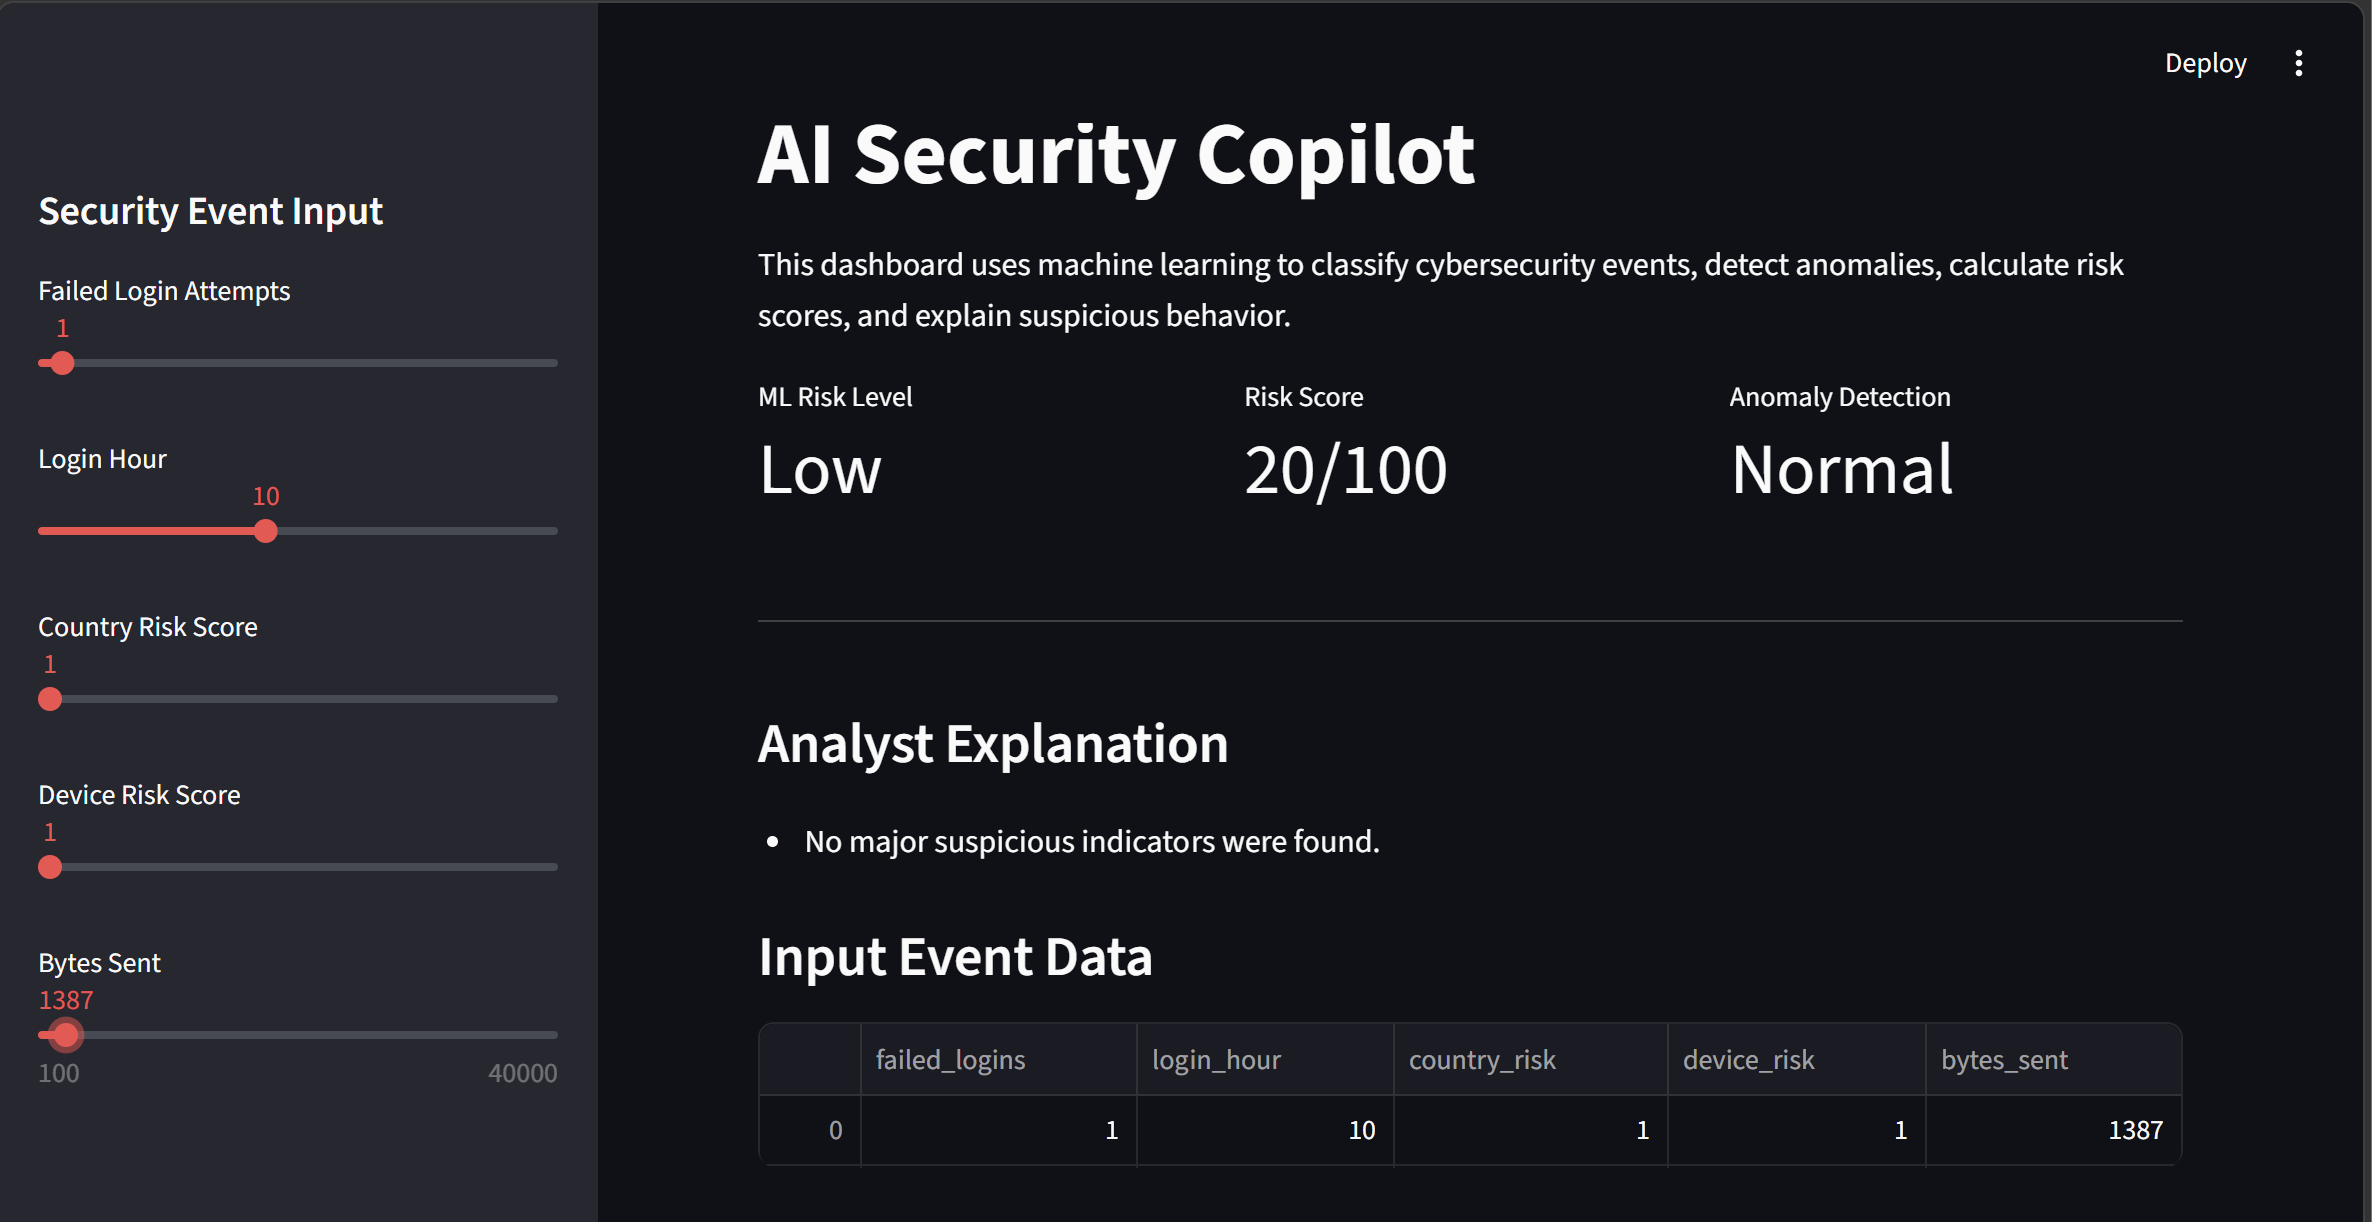
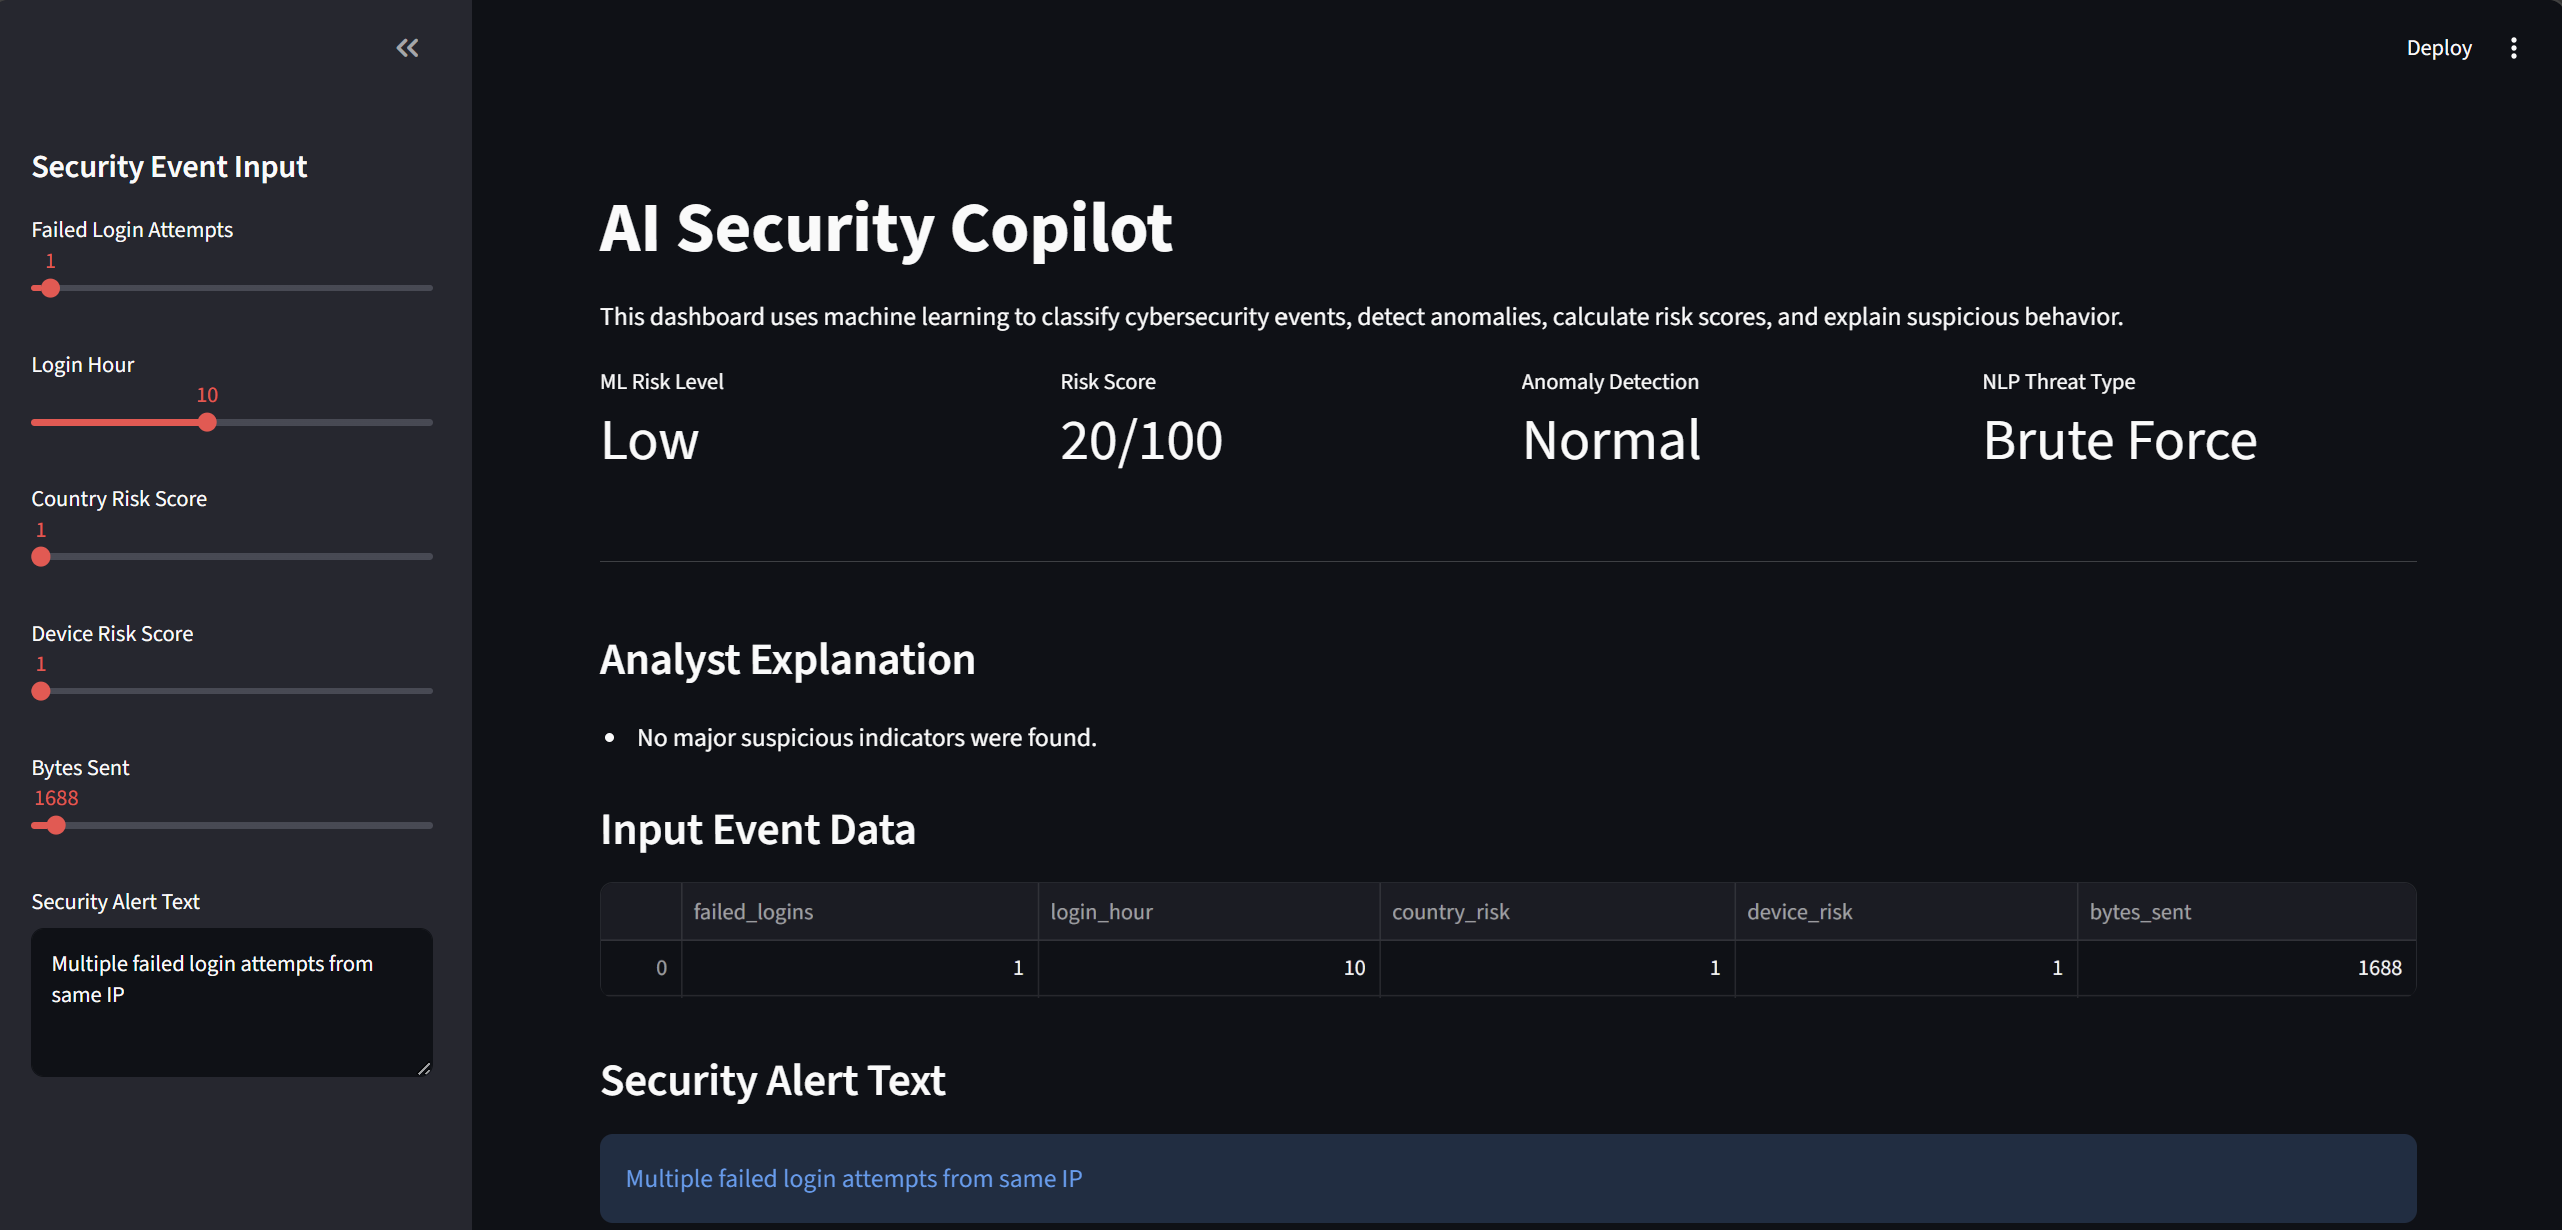
Updated screenshots and README with NLP feature

diff --git a/create_nlp_data.py b/create_nlp_data.py
@@ -1,0 +1,29 @@
+import pandas as pd
+
+data = [
+    ["Multiple failed login attempts from same IP", "Brute Force"],
+    ["Repeated password guessing detected", "Brute Force"],
+    ["Large number of login failures", "Brute Force"],
+
+    ["User entered credentials on fake website", "Phishing"],
+    ["Suspicious email requesting password", "Phishing"],
+    ["Credential harvesting attempt detected", "Phishing"],
+
+    ["Malicious software installed on endpoint", "Malware"],
+    ["Suspicious executable downloaded", "Malware"],
+    ["Trojan detected on workstation", "Malware"],
+
+    ["Files encrypted and ransom demanded", "Ransomware"],
+    ["Mass file encryption activity detected", "Ransomware"],
+    ["Ransom note found on system", "Ransomware"],
+
+    ["Large volume of sensitive data transferred", "Data Exfiltration"],
+    ["Unusual outbound traffic detected", "Data Exfiltration"],
+    ["Confidential files copied externally", "Data Exfiltration"]
+]
+
+df = pd.DataFrame(data, columns=["alert_text", "threat_type"])
+
+df.to_csv("data/security_alerts.csv", index=False)
+
+print("NLP dataset created")

diff --git a/train_nlp_model.py b/train_nlp_model.py
@@ -1,0 +1,25 @@
+import joblib
+import pandas as pd
+
+from sklearn.pipeline import Pipeline
+from sklearn.feature_extraction.text import TfidfVectorizer
+from sklearn.linear_model import LogisticRegression
+
+df = pd.read_csv("data/security_alerts.csv")
+
+X = df["alert_text"]
+y = df["threat_type"]
+
+nlp_model = Pipeline([
+    ("tfidf", TfidfVectorizer()),
+    ("classifier", LogisticRegression())
+])
+
+nlp_model.fit(X, y)
+
+joblib.dump(
+    nlp_model,
+    "models/threat_classifier.pkl"
+)
+
+print("NLP model trained successfully!")

diff --git a/app.py b/app.py
@@ -7,6 +7,7 @@ from src.risk_engine import calculate_risk_score, explain_event
 
 risk_model = joblib.load("models/risk_classifier.pkl")
 anomaly_model = joblib.load("models/anomaly_detector.pkl")
+threat_model = joblib.load("models/threat_classifier.pkl")
 
 st.set_page_config(
     page_title="AI Security Copilot",
@@ -27,6 +28,10 @@ login_hour = st.sidebar.slider("Login Hour", 0, 23, 12)
 country_risk = st.sidebar.slider("Country Risk Score", 1, 5, 2)
 device_risk = st.sidebar.slider("Device Risk Score", 1, 5, 2)
 bytes_sent = st.sidebar.slider("Bytes Sent", 100, 40000, 3000)
+alert_text = st.sidebar.text_area(
+    "Security Alert Text",
+    "Multiple failed login attempts from same IP"
+)
 
 input_data = pd.DataFrame([{
     "failed_logins": failed_logins,
@@ -38,6 +43,7 @@ input_data = pd.DataFrame([{
 
 risk_prediction = risk_model.predict(input_data)[0]
 anomaly_prediction = anomaly_model.predict(input_data)[0]
+threat_prediction = threat_model.predict([alert_text])[0]
 
 risk_score = calculate_risk_score(
     failed_logins,
@@ -55,7 +61,7 @@ explanations = explain_event(
     bytes_sent
 )
 
-col1, col2, col3 = st.columns(3)
+col1, col2, col3, col4 = st.columns(4)
 
 with col1:
     st.metric("ML Risk Level", risk_prediction)
@@ -68,6 +74,8 @@ with col3:
         st.metric("Anomaly Detection", "Anomaly")
     else:
         st.metric("Anomaly Detection", "Normal")
+with col4:
+    st.metric("NLP Threat Type", threat_prediction)
 
 st.divider()
 
@@ -78,6 +86,8 @@ for explanation in explanations:
 
 st.subheader("Input Event Data")
 st.dataframe(input_data)
+st.subheader("Security Alert Text")
+st.info(alert_text)
 
 st.subheader("Risk Score Visualization")
 